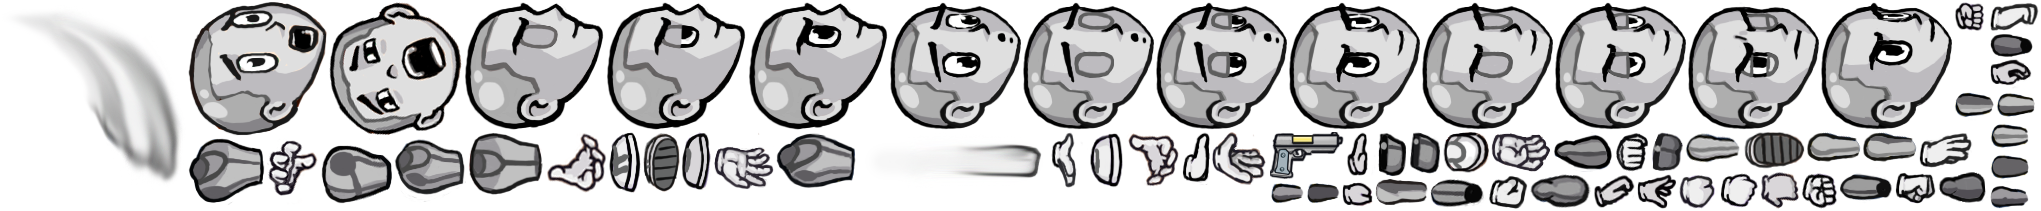
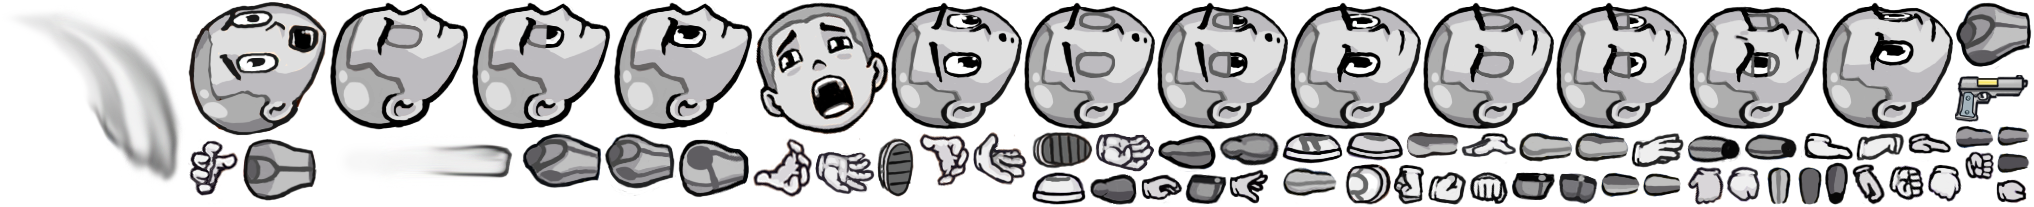
add support for TexturePacker rotation

diff --git a/demo/atlas.js b/demo/atlas.js
@@ -30,7 +30,7 @@ atlas.Site = function ()
 	site.y = 0;
 	site.w = 0;
 	site.h = 0;
-	site.rotate = false;
+	site.rotate = 0;
 	site.offset_x = 0;
 	site.offset_y = 0;
 	site.original_w = 0;
@@ -129,7 +129,7 @@ atlas.Data.prototype.importLines = function (lines)
 		{
 			if (match = line.match(/^  rotate: (.*)$/))
 			{
-				site.rotate = (match[1] !== 'false');
+				site.rotate = (match[1] !== 'false')?(-1):(0); // -90 degrees
 			}
 			else if (match = line.match(/^  xy: (.*), (.*)$/))
 			{
@@ -201,7 +201,7 @@ atlas.Data.prototype.exportLines = function (lines)
 			var site = data.sites[site_key];
 			if (site.page !== page) { continue; }
 			lines.push(site_key);
-			lines.push("  rotate: " + (site.rotate?'true':'false'));
+			lines.push("  rotate: " + (site.rotate !== 0?'true':'false'));
 			lines.push("  xy: " + site.x + ", " + site.y);
 			lines.push("  size: " + site.w + ", " + site.h);
 			lines.push("  orig: " + site.original_w + ", " + site.original_h);
@@ -240,11 +240,11 @@ atlas.Data.prototype.importTPS = function (tps_text)
 		site.y = frame.frame.y;
 		site.w = frame.frame.w;
 		site.h = frame.frame.h;
-		site.rotate = frame.rotated;
-		site.offset_x = frame.spriteSourceSize.x;
-		site.offset_y = frame.spriteSourceSize.y;
-		site.original_w = frame.sourceSize.w;
-		site.original_h = frame.sourceSize.h;
+		site.rotate = (frame.rotated)?(1):(0); // 90 degrees
+		site.offset_x = (frame.spriteSourceSize && frame.spriteSourceSize.x) || 0;
+		site.offset_y = (frame.spriteSourceSize && frame.spriteSourceSize.y) || 0;
+		site.original_w = (frame.sourceSize && frame.sourceSize.w) || site.w;
+		site.original_h = (frame.sourceSize && frame.sourceSize.h) || site.h;
 	}
 
 	return data;

diff --git a/demo/render-webgl.js b/demo/render-webgl.js
@@ -337,10 +337,15 @@ function mat3x3ApplyAtlasSiteTexcoord (m, site)
 	if (site)
 	{
 		mat3x3Translate(m, site.x, site.y);
-		if (site.rotate)
+		if (site.rotate === -1)
 		{
 			mat3x3Translate(m, 0, site.w); // bottom-left corner
 			mat3x3RotateCosSin(m, 0, -1); // -90 degrees
+		}
+		else if (site.rotate === 1)
+		{
+			mat3x3Translate(m, site.h, 0); // top-right corner
+			mat3x3RotateCosSin(m, 0, 1); // 90 degrees
 		}
 		mat3x3Scale(m, site.w, site.h);
 	}
